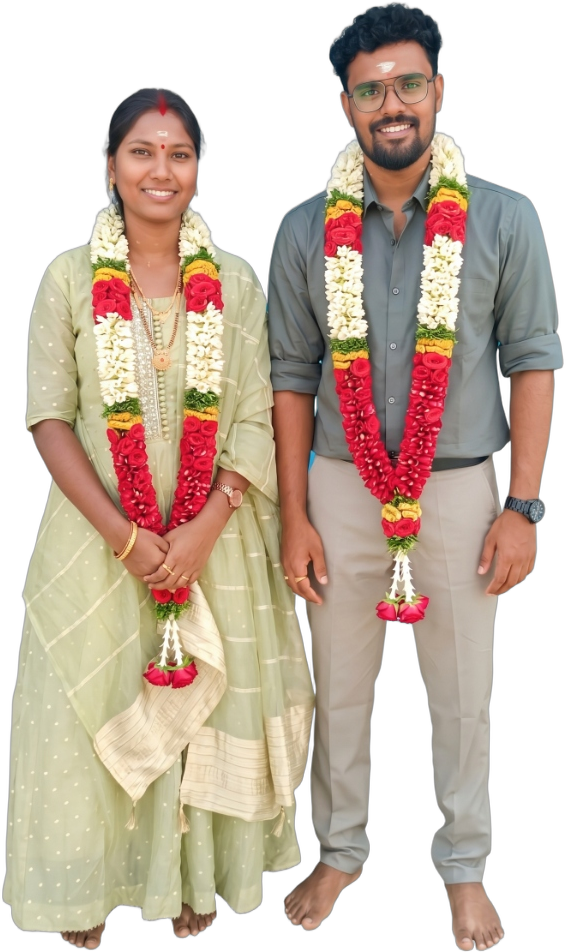
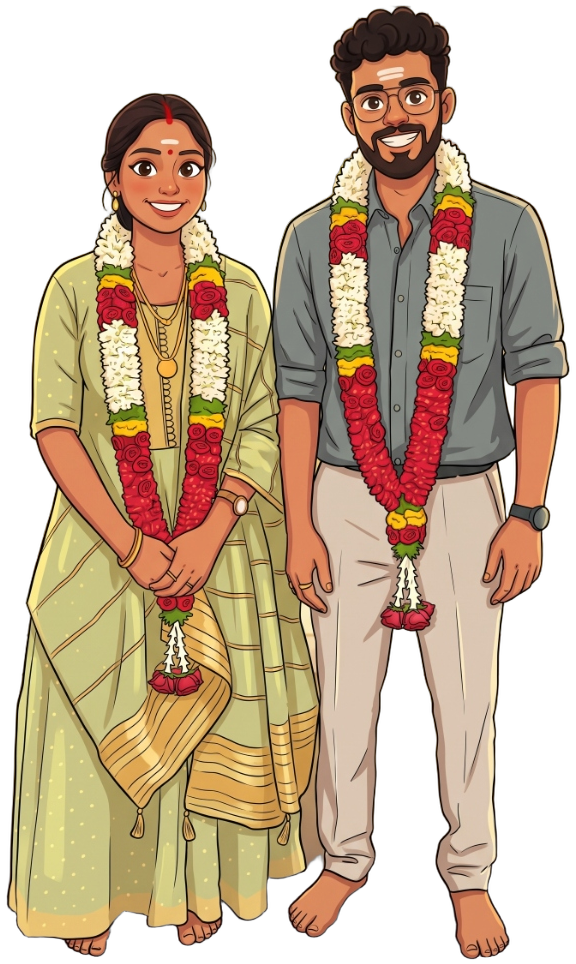
feat: replace real couple with transparent cartoon illustration and style white scroll indicator below date

diff --git a/app/page.js b/app/page.js
@@ -713,9 +713,9 @@ export default function WeddingInvitation() {
           </p>
           <p className="hero-date">FRIDAY, 13 NOVEMBER 2026</p>
 
-          {/* Pure Scroll Symbol below the date 13 Nov 2026 */}
+          {/* Scroll Word & Scroll Symbol in White below Date 13 Nov 2026 */}
           <div
-            className="hero-scroll-symbol-btn"
+            className="hero-scroll-white-indicator"
             onClick={() => {
               const nextSec = document.querySelector('.couple-section');
               if (nextSec) {
@@ -727,10 +727,11 @@ export default function WeddingInvitation() {
             title="Scroll down"
             aria-label="Scroll down to invitation"
           >
+            <span className="hero-scroll-word-white">SCROLL</span>
             <svg
-              className="hero-mouse-svg"
-              width="14"
-              height="22"
+              className="hero-mouse-svg-white"
+              width="13"
+              height="20"
               viewBox="0 0 14 22"
               fill="none"
               xmlns="http://www.w3.org/2000/svg"
@@ -741,33 +742,33 @@ export default function WeddingInvitation() {
                 width="12"
                 height="20"
                 rx="6"
-                stroke="#b8862b"
-                strokeWidth="1.5"
-                fill="rgba(255, 255, 255, 0.2)"
+                stroke="#ffffff"
+                strokeWidth="1.6"
+                fill="rgba(255, 255, 255, 0.15)"
               />
               <line
-                className="hero-mouse-wheel-line"
+                className="hero-mouse-wheel-white"
                 x1="7"
                 y1="5"
                 x2="7"
                 y2="8"
-                stroke="#b8862b"
-                strokeWidth="1.5"
+                stroke="#ffffff"
+                strokeWidth="1.6"
                 strokeLinecap="round"
               />
             </svg>
             <svg
-              className="hero-chevron-svg"
-              width="8"
+              className="hero-chevron-svg-white"
+              width="9"
               height="5"
-              viewBox="0 0 8 5"
+              viewBox="0 0 9 5"
               fill="none"
               xmlns="http://www.w3.org/2000/svg"
             >
               <path
-                d="M1 1L4 4L7 1"
-                stroke="#b8862b"
-                strokeWidth="1.4"
+                d="M1 1L4.5 4L8 1"
+                stroke="#ffffff"
+                strokeWidth="1.6"
                 strokeLinecap="round"
                 strokeLinejoin="round"
               />

diff --git a/app/globals.css b/app/globals.css
@@ -194,11 +194,11 @@ body {
 
 .hero-couple-img {
   width: auto;
-  height: clamp(230px, 35vh, 290px);
+  height: clamp(240px, 36vh, 305px);
   max-width: 320px;
   object-fit: contain;
   object-position: bottom center;
-  filter: drop-shadow(0 10px 18px rgba(0, 0, 0, 0.45));
+  filter: drop-shadow(0 12px 20px rgba(0, 0, 0, 0.45));
   animation: subtleHeroFloat 4s ease-in-out infinite alternate;
 }
 
@@ -207,21 +207,22 @@ body {
   100% { transform: translateY(-4px); }
 }
 
-/* Pure Minimalist Scroll Symbol Below Date (No Pill, No Text) */
+/* White Scroll Word & Scroll Symbol below Date */
+.hero-scroll-white-indicator,
 .hero-scroll-symbol-btn,
 .hero-date-scroll {
-  margin: 6px auto 0;
+  margin: 5px auto 0;
   display: inline-flex;
   flex-direction: column;
   align-items: center;
   justify-content: center;
-  gap: 2px;
+  gap: 2.5px;
   cursor: pointer;
   background: transparent !important;
   border: none !important;
   outline: none !important;
   box-shadow: none !important;
-  padding: 3px 6px;
+  padding: 2px 6px;
   user-select: none;
   -webkit-user-select: none;
   touch-action: manipulation;
@@ -229,28 +230,45 @@ body {
   transition: transform 0.2s ease, opacity 0.2s ease;
 }
 
+.hero-scroll-white-indicator:hover,
 .hero-scroll-symbol-btn:hover,
 .hero-date-scroll:hover {
-  opacity: 0.8;
+  opacity: 0.85;
 }
 
+.hero-scroll-white-indicator:active,
 .hero-scroll-symbol-btn:active,
 .hero-date-scroll:active {
   transform: scale(0.92);
 }
 
-.hero-mouse-svg {
-  display: block;
-  filter: drop-shadow(0 1px 2px rgba(0, 0, 0, 0.15));
+.hero-scroll-word-white {
+  font-family: 'Montserrat', sans-serif;
+  font-size: 0.52rem;
+  font-weight: 700;
+  letter-spacing: 0.26em;
+  text-transform: uppercase;
+  color: #ffffff !important;
+  padding-left: 0.26em;
+  line-height: 1;
+  text-shadow: 0 1px 3px rgba(0, 0, 0, 0.85), 0 2px 8px rgba(0, 0, 0, 0.65);
 }
 
+.hero-mouse-svg-white,
+.hero-mouse-svg {
+  display: block;
+  filter: drop-shadow(0 2px 5px rgba(0, 0, 0, 0.75));
+}
+
+.hero-mouse-wheel-white,
 .hero-mouse-wheel-line {
   animation: mouseWheelSlide 1.5s infinite ease-in-out;
 }
 
+.hero-chevron-svg-white,
 .hero-chevron-svg {
   display: block;
-  filter: drop-shadow(0 1px 2px rgba(0, 0, 0, 0.15));
+  filter: drop-shadow(0 2px 4px rgba(0, 0, 0, 0.75));
   animation: chevronNudge 1.5s infinite ease-in-out;
 }
 

diff --git a/scripts/process_cartoon_couple.py b/scripts/process_cartoon_couple.py
@@ -1,0 +1,41 @@
+import os
+from PIL import Image
+from rembg import remove
+
+input_path = r"c:\Users\Visha\.gemini\antigravity-ide\brain\d36f5241-26b2-4757-8e8b-31b7fc9343e7\.user_uploaded\media_1792071690062.jpg"
+output_png = r"c:\Users\Visha\.antigravity-ide\wedding-temple\public\images\couple_full.png"
+output_webp = r"c:\Users\Visha\.antigravity-ide\wedding-temple\public\images\couple_full.webp"
+
+print(f"Loading input image: {input_path}")
+img = Image.open(input_path).convert("RGBA")
+print(f"Input size: {img.size}")
+
+print("Removing background with rembg...")
+nobg = remove(img)
+
+# Find bounding box of non-transparent pixels to crop tight
+bbox = nobg.getbbox()
+if bbox:
+    # Give a tiny 4px padding if possible
+    w, h = nobg.size
+    x1 = max(0, bbox[0] - 4)
+    y1 = max(0, bbox[1] - 4)
+    x2 = min(w, bbox[2] + 4)
+    y2 = min(h, bbox[3] + 4)
+    nobg = nobg.crop((x1, y1, x2, y2))
+    print(f"Cropped to bbox: {nobg.size}")
+
+# Resize if needed - keep high quality
+# Target width ~700px, aspect ratio preserved
+max_w = 700
+if nobg.width > max_w:
+    ratio = max_w / nobg.width
+    new_h = int(nobg.height * ratio)
+    nobg = nobg.resize((max_w, new_h), Image.Resampling.LANCZOS)
+    print(f"Resized to: {nobg.size}")
+
+nobg.save(output_png, "PNG")
+print(f"Saved PNG to {output_png} (size: {os.path.getsize(output_png)} bytes)")
+
+nobg.save(output_webp, "WEBP", quality=85, method=6)
+print(f"Saved WEBP to {output_webp} (size: {os.path.getsize(output_webp)} bytes)")
